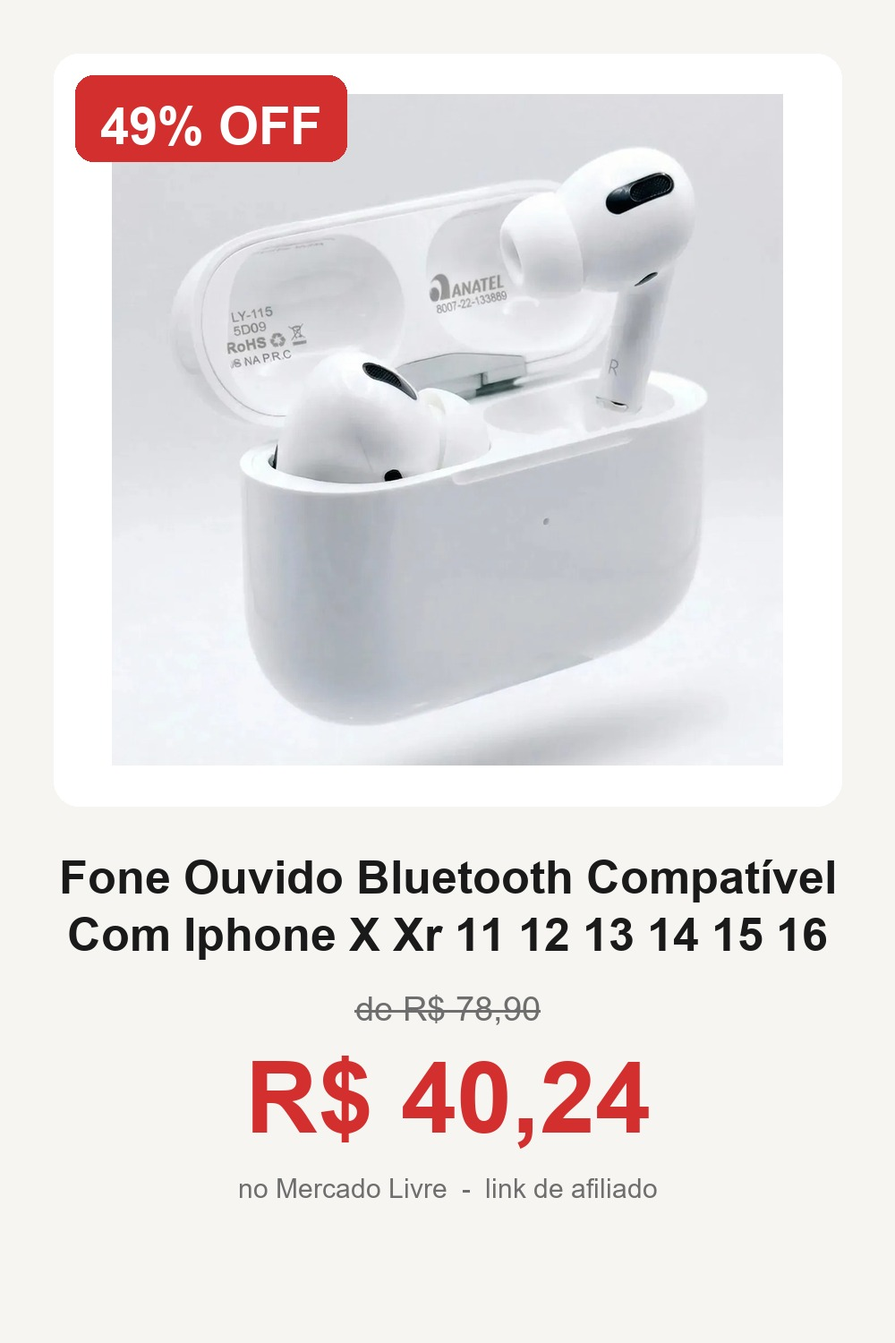
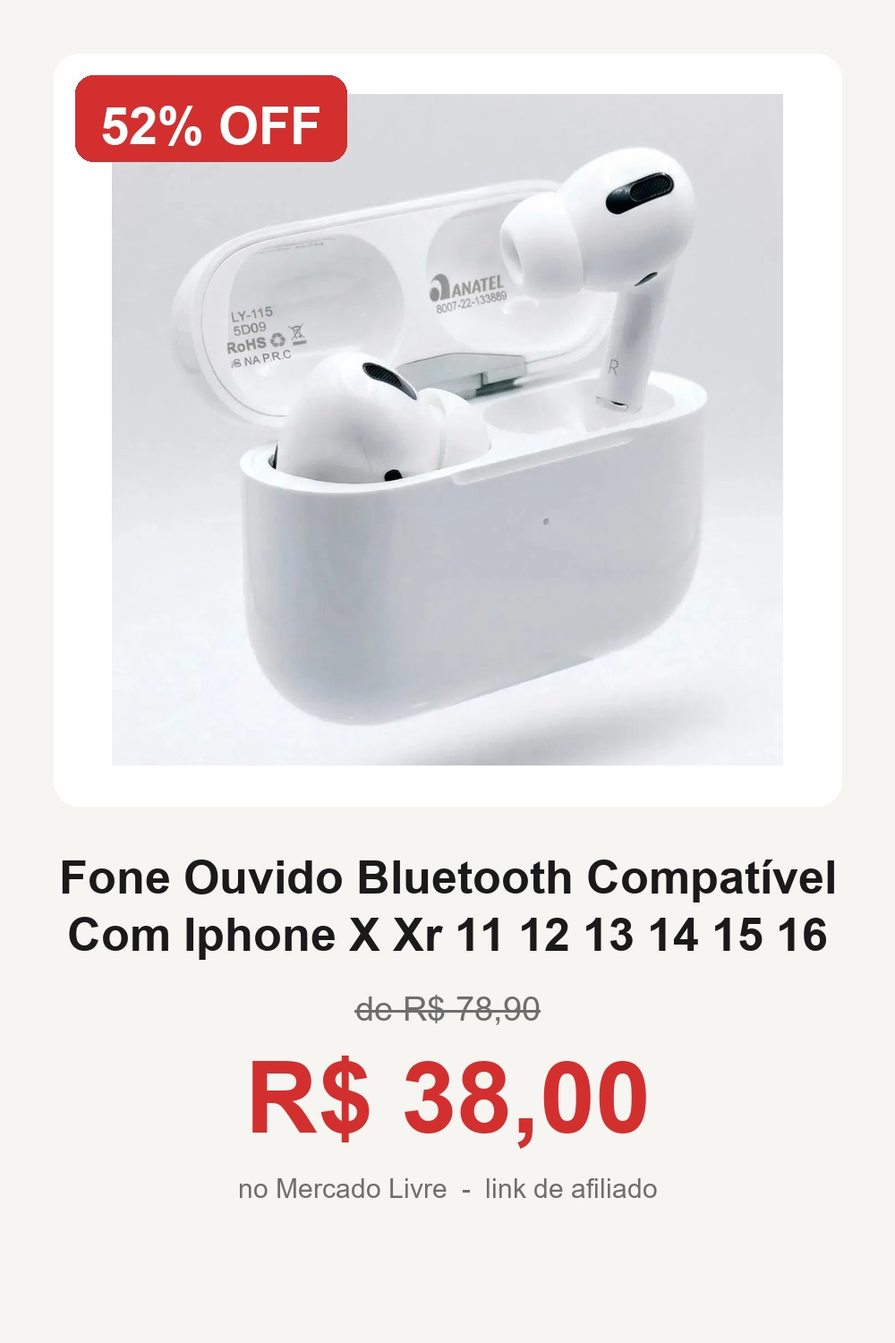
ofertas de 26/08/2026 09:30

Changed region(s): [[0.434, 0.7667, 0.744, 0.8587], [0.093, 0.0613, 0.186, 0.1227]]

diff --git a/index.html b/index.html
@@ -52,46 +52,38 @@ footer{text-align:center;color:var(--sub);font-size:13px;padding:32px 20px 56px;
 <p class="aviso">Os links sao de afiliado: voce paga o mesmo preco e eu recebo uma comissao.</p>
 
 <main>
-  <h2>Achados de 25/08/2026</h2>
+  <h2>Achados de 26/08/2026</h2>
   <div class="grade">
-    <a class="item" href="https://www.mercadolivre.com.br/social/eulleriago?matt_word=lootlabpinterest&amp;matt_tool=51242712&amp;forceInApp=true&amp;ref=BDXuMdaBcyIZwxMpnj3FsOLmb3lxolY48I%2F6SBkPc4qpBGSPZrIPAc27kKkda9nioZeig7N3Ct%2BM3Xq2eV%2B72GEMXUOeW0qhWbxjXaojla7DdRXfGIFCzJIkLvKDFfi71TJPPLXPsvbK2J0dkJNuIrCExP7Ryll2hHDlbvsDNzQpAdmocQETf%2Bv0l9UFTqqt6KiWTA%3D%3D" target="_blank" rel="nofollow sponsored noopener">
-      <img src="img/MLB6658742760.jpg" alt="Masterprint PETG Marrom" loading="lazy">
+    <a class="item" href="https://www.mercadolivre.com.br/social/eulleriago?matt_word=lootlabpinterest&amp;matt_tool=51242712&amp;forceInApp=true&amp;ref=BLq3xGLHOSsx3PDuyQT6UXx3uIKMGN2gUorcBduDoXsjZ%2BqYx1JqDubNJUyEE234ByuqwHcMvYmcTx8nZF%2BCnHjluGtq%2BvClZ8XZqMnlgl7zZEi1XHgAvKUMaQK9OIXhdknDUVgM9pATDf7eTlkCMXX0ZfmmQDoq5VETXylWyctwlx4QCNYH2WY10FxkkuE%2BGp9fxg%3D%3D" target="_blank" rel="nofollow sponsored noopener">
+      <img src="img/MLB5761878524.jpg" alt="Samsung Galaxy Buds Core, Fone de Ouvido, sem fio, cancelamento de ruído, interp" loading="lazy">
       <div class="txt">
-        <span class="tag">66% OFF</span>
-        <h3>Masterprint PETG Marrom</h3>
-        <div><span class="preco">R$ 67,27</span><span class="de">R$ 200,60</span></div>
+        <span class="tag">62% OFF</span>
+        <h3>Samsung Galaxy Buds Core, Fone de Ouvido, sem fio, cancelamento de ruí</h3>
+        <div><span class="preco">R$ 249,90</span><span class="de">R$ 649,90</span></div>
       </div>
     </a>
-    <a class="item" href="https://www.mercadolivre.com.br/social/eulleriago?matt_word=lootlabpinterest&amp;matt_tool=51242712&amp;forceInApp=true&amp;ref=BGm7uDHiVCnqSt2T2zuPW7GYUN8gTENAibzIIKGCFfU8U0M4gtxYssOxIaLuY9imF7c9kOa7cShiDAtAcn4Qz42VEOrYRVYApJ0pbVVRz4PGc3kVbZMTXPnIDbRicjK9A2dXIAyVw8qdMc%2B39f1xHgYwG3o6%2F%2BiaYIoV1GnEvrxu6KDCbV1M4p3vCBD%2BOooylNEVmg%3D%3D" target="_blank" rel="nofollow sponsored noopener">
-      <img src="img/MLB6288688794.jpg" alt="Kit Cobre Leito Colcha Casal 3 Peças Boutis Dupla Face Porta Travesseiro Aba Ame" loading="lazy">
+    <a class="item" href="https://www.mercadolivre.com.br/social/eulleriago?matt_word=lootlabpinterest&amp;matt_tool=51242712&amp;forceInApp=true&amp;ref=BFTJScz1IF%2FVNZezlAKeHQfdxzA7ElMOf5c2cDiG7savdsrr1dSRQQYVgDgUg%2BuqBGU%2BAmWoGa7kpkd2KRMgDa5FZfB06ZhMYQT5OgkAMlrjwnE6EgZdHh72vX3z7ckEUYeiFWKVWoZ0e29XMQ1id%2Bnab7im%2B0uI3J2XG7N25r7SU6l%2BVWdSW10qkEq3r65QU5rD5g%3D%3D" target="_blank" rel="nofollow sponsored noopener">
+      <img src="img/MLB4652637003.jpg" alt="Controle DualSense Sem Fio PlayStation 5 Cobalt Blue" loading="lazy">
       <div class="txt">
-        <span class="tag">61% OFF</span>
-        <h3>Kit Cobre Leito Colcha Casal 3 Peças Boutis Dupla Face Porta Travessei</h3>
-        <div><span class="preco">R$ 74,00</span><span class="de">R$ 187,90</span></div>
+        <span class="tag">56% OFF</span>
+        <h3>Controle DualSense Sem Fio PlayStation 5 Cobalt Blue</h3>
+        <div><span class="preco">R$ 438,99</span><span class="de">R$ 999,00</span></div>
       </div>
     </a>
-    <a class="item" href="https://www.mercadolivre.com.br/social/eulleriago?matt_word=lootlabpinterest&amp;matt_tool=51242712&amp;forceInApp=true&amp;ref=BJkELEI03zub%2BMzuwkMV1HyGaTkcRa3QGl%2B2lNlmlAQel4vuldHfHSq%2FXMPMkZAepySwdisCIxl9Du4f6SiXlJMFAS1HtrRN5RIFKgr%2Fs2sj%2Bx%2B%2BP%2BMe4r1uSxJ6JIoJ5GOtltGcD0zsZ9xoM%2B50yz500%2BnBQNUaO5Ub5CTSofdCoNC5%2BiuGBgWSuW9h4EoLJ1JvDA%3D%3D" target="_blank" rel="nofollow sponsored noopener">
-      <img src="img/MLB3936392089.jpg" alt="Controle GameSir G7 SE com Fio para Xbox One Series S X PC Hall Effect Botões Me" loading="lazy">
+    <a class="item" href="https://www.mercadolivre.com.br/social/eulleriago?matt_word=lootlabpinterest&amp;matt_tool=51242712&amp;forceInApp=true&amp;ref=BDuRPrLN1I9jpjX%2BSEpXq1qb5hdvtofYbHpPjNcOeeE1TW%2BtrosiWjgV%2Bh%2FkANpLeS%2BIJ0bhBz8WSIa9mcIhLlymt6wuffrAuLl8mZ6WfHdOS4fG7niqyz4hDIyMfPUlnI8%2FkIao1w23ZoTOMTWh0rbwMPnxYVpHoIp3xQw4Z65ahzhv%2BN9wcDxsLq1I0spCVkVyfw%3D%3D" target="_blank" rel="nofollow sponsored noopener">
+      <img src="img/MLB4371605519.jpg" alt="Kit 10 Pote De Vidro Marmita Hermético 370ml Freezer Fitness Rishon" loading="lazy">
       <div class="txt">
-        <span class="tag">51% OFF</span>
-        <h3>Controle GameSir G7 SE com Fio para Xbox One Series S X PC Hall Effect</h3>
-        <div><span class="preco">R$ 225,04</span><span class="de">R$ 459,90</span></div>
+        <span class="tag">53% OFF</span>
+        <h3>Kit 10 Pote De Vidro Marmita Hermético 370ml Freezer Fitness Rishon</h3>
+        <div><span class="preco">R$ 75,77</span><span class="de">R$ 159,90</span></div>
       </div>
     </a>
-    <a class="item" href="https://www.mercadolivre.com.br/social/eulleriago?matt_word=lootlabpinterest&amp;matt_tool=51242712&amp;forceInApp=true&amp;ref=BNMXACdkrxptOnyj5DZoqQsbuo0vN%2FEFeDZ%2FPGltV%2BCMS2yZCg%2B0JCm1PMjU6%2FFBmHWumgzVgwpzJKLnFINdiIrPf6r%2FCEUk06CIGfL39%2FhCA8casTW56fa6ylb32s4lk4yUJjtfIi%2Bn5FqK%2B0EoIRsHs6h4eCgXea338wUk6QT%2F058JuQhm5yIQRsgcQ62XBNaV1w%3D%3D" target="_blank" rel="nofollow sponsored noopener">
-      <img src="img/MLB6797030590.jpg" alt="Barbeador e Aparador Elétrico Philips OneBlade com Pente 5 em 1, Sem Fio e À Pro" loading="lazy">
+    <a class="item" href="https://www.mercadolivre.com.br/social/eulleriago?matt_word=lootlabpinterest&amp;matt_tool=51242712&amp;forceInApp=true&amp;ref=BHKz%2BEJuxLGT%2BZbAXjje%2F7VO5MvFpwL9XcbIzQbvBnQ%2BaCn6NR%2Fj08w3n9wXwZp3LyzcMj0O8KLEEXHCy2C4bJ7sRbmD6%2FXx9YxCgejPzbpa9mxZHY5%2BUvOTfHi1aSx3Ww1EEVzebYV9yVq7TV4aKpYG%2FO4GZdRh4vm%2BCH6w%2BjslOjCLfw9UzqHhgtWFeNoifG9puw%3D%3D" target="_blank" rel="nofollow sponsored noopener">
+      <img src="img/MLB6538432578.jpg" alt="Fone Ouvido Bluetooth Compatível Com Iphone X Xr 11 12 13 14 15 16 17 Xs Pro Max" loading="lazy">
       <div class="txt">
-        <span class="tag">50% OFF</span>
-        <h3>Barbeador e Aparador Elétrico Philips OneBlade com Pente 5 em 1, Sem F</h3>
-        <div><span class="preco">R$ 274,94</span><span class="de">R$ 549,87</span></div>
-      </div>
-    </a>
-    <a class="item" href="https://www.mercadolivre.com.br/social/eulleriago?matt_word=lootlabpinterest&amp;matt_tool=51242712&amp;forceInApp=true&amp;ref=BHw9WzwaBK%2B6GWMXrf7BNhSGgdF0semcek0YHuUxHvPf5ADUyvsoQwTCYaX2y5%2FMQYzxgZjtlaIgd4zaWcA1wMKjLXcrnPK8qcxPa2cltc32NkUe3K1Wn0AQ%2FuTup2nBwbKXfopkpeobKd2BsUP%2F4Ktb714Ma9iHY%2B5xdEAjs%2BZmN8y6Xd5Bq6Xp%2FWHYtWnh68H4NQ%3D%3D" target="_blank" rel="nofollow sponsored noopener">
-      <img src="img/MLB6588418806.jpg" alt="Fone De Ouvido Headphone Dapon H02d Bluetooth 5.1 Over-ear 22 Horas De Bateria V" loading="lazy">
-      <div class="txt">
-        <span class="tag">50% OFF</span>
-        <h3>Fone De Ouvido Headphone Dapon H02d Bluetooth 5.1 Over-ear 22 Horas De</h3>
-        <div><span class="preco">R$ 74,20</span><span class="de">R$ 149,00</span></div>
+        <span class="tag">52% OFF</span>
+        <h3>Fone Ouvido Bluetooth Compatível Com Iphone X Xr 11 12 13 14 15 16 17 </h3>
+        <div><span class="preco">R$ 38,00</span><span class="de">R$ 78,90</span></div>
       </div>
     </a>
     <a class="item" href="https://www.mercadolivre.com.br/social/eulleriago?matt_word=lootlabpinterest&amp;matt_tool=51242712&amp;forceInApp=true&amp;ref=BJJEOAOP8GYIwis%2FcETnSMFobxVP6wFO2QnACLkDZlhFrAEBDZg5l%2FU%2B5j8JPFqNFqH1eWX4mOXOIJWAj6IhQhApkZowZJfz6nlpFjAbwz6oodYRvk56KH%2FvPl0y3o89yuENQ4jn9q9L8WJlheHBLSmCbYVhOqDmLLAYwRFqeAYJgb4WvU%2FJoyYTiaUHMGbSkgA1Bw%3D%3D" target="_blank" rel="nofollow sponsored noopener">
@@ -102,14 +94,6 @@ footer{text-align:center;color:var(--sub);font-size:13px;padding:32px 20px 56px;
         <div><span class="preco">R$ 74,20</span><span class="de">R$ 149,00</span></div>
       </div>
     </a>
-    <a class="item" href="https://www.mercadolivre.com.br/social/eulleriago?matt_word=lootlabpinterest&amp;matt_tool=51242712&amp;forceInApp=true&amp;ref=BAzH6QrRJmE0wUAG9QvE1p85if%2BdCye1qtk59H5p2Jf0zN4CPdS0bVKch5FiGTAiQmAp7hKX0yWR%2FcY0oK%2BPMxRPpZvbB3lgD7%2BrUavnA%2FFDB2GBbX3d9v%2FzmwNyGJ93JVmTiGox0k%2Fl8wEeLgQfwnGLhh71apruO3CKYdZVGe4HISm8jPrfUSBkL9OVfkW%2B8sw2ww%3D%3D" target="_blank" rel="nofollow sponsored noopener">
-      <img src="img/MLB6449109660.jpg" alt="Bicicleta de Equilíbrio Infantil Sem Pedal Vermelho Buba" loading="lazy">
-      <div class="txt">
-        <span class="tag">49% OFF</span>
-        <h3>Bicicleta de Equilíbrio Infantil Sem Pedal Vermelho Buba</h3>
-        <div><span class="preco">R$ 203,99</span><span class="de">R$ 399,99</span></div>
-      </div>
-    </a>
     <a class="item" href="https://www.mercadolivre.com.br/social/eulleriago?matt_word=lootlabpinterest&amp;matt_tool=51242712&amp;forceInApp=true&amp;ref=BJ5VeCOWdVKuXCxLOre8uszl5o96lz4rGbgPbyp1lzkf20cVZoWHC0QbeOQ7As3bncO0ty%2F7442c7ZxA2omnvU%2BsdJrxR%2FnrL3SA9QggtnwNkzQE9JYQ1A9yEHc2u5DlyQoQtKBb%2BFP1cPBSzDza1BP8TQS8%2BGZlyd6UTXWO%2Bx3XiUXDdPsQeMg5Ah58Vgsmzp4aIA%3D%3D" target="_blank" rel="nofollow sponsored noopener">
       <img src="img/MLB5410636044.jpg" alt="Fone de Ouvido Bluetooth 5.4 soundcore P30i da Anker, Cancelamento de Ruído Adap" loading="lazy">
       <div class="txt">
@@ -118,68 +102,36 @@ footer{text-align:center;color:var(--sub);font-size:13px;padding:32px 20px 56px;
         <div><span class="preco">R$ 196,60</span><span class="de">R$ 389,00</span></div>
       </div>
     </a>
-    <a class="item" href="https://www.mercadolivre.com.br/social/eulleriago?matt_word=lootlabpinterest&amp;matt_tool=51242712&amp;forceInApp=true&amp;ref=BAhMKFlI9uapiZ7syV7kNBt5yh%2FvcadidYOziYZxLGHRS6w%2FO4CsANYCY%2BF8LKLOZssxEbZtuNWrxcM8mB4k1erbKafKdtrBCDt4Ohz%2F3kmS0E0U4LcRDZslQE%2FxcwUyDfDBF851URQFATIMnlq3wKZRTBK9%2BlMrgT9QGny6HEYfH97Uot0vf6tkS3m%2FHh3LCNCONQ%3D%3D" target="_blank" rel="nofollow sponsored noopener">
-      <img src="img/MLB6881037414.jpg" alt="Bomba De Tirar Leite Elétrica Bombinha De Leite Materno Alimentação Coletor De L" loading="lazy">
+    <a class="item" href="https://www.mercadolivre.com.br/social/eulleriago?matt_word=lootlabpinterest&amp;matt_tool=51242712&amp;forceInApp=true&amp;ref=BKHKgi1v%2BA00jedhoW6fc8l7SpzA94AgCcJ%2BtS71%2F2TozVtJrv5hsS9HMby%2BEkJvRYS%2F3qUcnnxSAWOedo5AxBdBQRDZBNrAtbDJwB9iZrvKeVh9baWZlmgWG1hFA4%2BXRWAFmcnhriCHSH87d%2F478glhpRKbeEiLzxACSjOd3JP2IuXywzTB7HSE3CUh1OUXMjD4FQ%3D%3D" target="_blank" rel="nofollow sponsored noopener">
+      <img src="img/MLB6259140664.jpg" alt="Fones de ouvido sem fio Xiaomi Redmi Buds 6 Play Bluetooth Pink" loading="lazy">
       <div class="txt">
         <span class="tag">49% OFF</span>
-        <h3>Bomba De Tirar Leite Elétrica Bombinha De Leite Materno Alimentação Co</h3>
-        <div><span class="preco">R$ 43,00</span><span class="de">R$ 84,99</span></div>
+        <h3>Fones de ouvido sem fio Xiaomi Redmi Buds 6 Play Bluetooth Pink</h3>
+        <div><span class="preco">R$ 91,88</span><span class="de">R$ 180,00</span></div>
       </div>
     </a>
-    <a class="item" href="https://www.mercadolivre.com.br/social/eulleriago?matt_word=lootlabpinterest&amp;matt_tool=51242712&amp;forceInApp=true&amp;ref=BHKz%2BEJuxLGT%2BZbAXjje%2F7VO5MvFpwL9XcbIzQbvBnQ%2BaCn6NR%2Fj08w3n9wXwZp3LyzcMj0O8KLEEXHCy2C4bJ7sRbmD6%2FXx9YxCgejPzbpa9mxZHY5%2BUvOTfHi1aSx3Ww1EEVzebYV9yVq7TV4aKpYG%2FO4GZdRh4vm%2BCH6w%2BjslOjCLfw9UzqHhgtWFeNoifG9puw%3D%3D" target="_blank" rel="nofollow sponsored noopener">
-      <img src="img/MLB6538432578.jpg" alt="Fone Ouvido Bluetooth Compatível Com Iphone X Xr 11 12 13 14 15 16 17 Xs Pro Max" loading="lazy">
-      <div class="txt">
-        <span class="tag">49% OFF</span>
-        <h3>Fone Ouvido Bluetooth Compatível Com Iphone X Xr 11 12 13 14 15 16 17 </h3>
-        <div><span class="preco">R$ 40,24</span><span class="de">R$ 78,90</span></div>
-      </div>
-    </a>
-    <a class="item" href="https://www.mercadolivre.com.br/social/eulleriago?matt_word=lootlabpinterest&amp;matt_tool=51242712&amp;forceInApp=true&amp;ref=BPX2oVhCzFp1VfBpU2S%2Bn3e%2FBPLOOAdG6bWklT5ccNVp7YCDp6KtM5%2BGNpKs1lu1eX%2Fr7z40HMeSuBBEYsZW8mnzqHpM8buW%2BrYVEJpXElLcjuClML1VG3lgHtvJgcE0%2ByNavDq%2F5NQGY4tTeIkCKhK0eAvDtMLcBIkuTBW3etlHD9FB26t%2BoxC%2BfwMYNq9weZ7n8Q%3D%3D" target="_blank" rel="nofollow sponsored noopener">
-      <img src="img/MLB6499991640.jpg" alt="Controle Dualsense Cfi-zct1 Sem Fio Ps5 Galactic Purple" loading="lazy">
-      <div class="txt">
-        <span class="tag">48% OFF</span>
-        <h3>Controle Dualsense Cfi-zct1 Sem Fio Ps5 Galactic Purple</h3>
-        <div><span class="preco">R$ 469,00</span><span class="de">R$ 899,00</span></div>
-      </div>
-    </a>
-    <a class="item" href="https://www.mercadolivre.com.br/social/eulleriago?matt_word=lootlabpinterest&amp;matt_tool=51242712&amp;forceInApp=true&amp;ref=BMYvvDNWr%2BQ3zWcYgBmMPWip2oowAD%2BLxHyEo2wKvVd2gQobccBEVsX%2BoGlpqee5FUWxlxod%2B5ZlZS5v4Oez%2F11CEc%2BAuvqx3mvRJaHMUTibr%2Ff73jqIk7rFzegq5ZPKWxvXULp34YgS290K4WAJBaoYv1COIxRVHhevNfA%2Bb7D93UfPAghGn8wgz8aWpqjP1UZZAA%3D%3D" target="_blank" rel="nofollow sponsored noopener">
-      <img src="img/MLB4975003963.jpg" alt="Espremedor Turbo Citrus, Mondial, 25W - E-01" loading="lazy">
-      <div class="txt">
-        <span class="tag">48% OFF</span>
-        <h3>Espremedor Turbo Citrus, Mondial, 25W - E-01</h3>
-        <div><span class="preco">R$ 99,97</span><span class="de">R$ 191,97</span></div>
-      </div>
-    </a>
-    <a class="item" href="https://www.mercadolivre.com.br/social/eulleriago?matt_word=lootlabpinterest&amp;matt_tool=51242712&amp;forceInApp=true&amp;ref=BLNKfNx737DQhVS7w0RozMVS56a589WNV1%2B6J3aHfiYnYvVJ%2Bc2WulEmJRl5%2BeydkgU4qLNNzCE9bvY9OyU%2FUFAO5XcE8kR5SOSAXtdUMzFsLXpXztLWxXpGk6MOmKntk38dxZuXl6qfTlacONPz%2FmVo2w6MLn53g5z2z6pJKAbPpEY8c06pmJX%2Bgwzh770gmsCC1g%3D%3D" target="_blank" rel="nofollow sponsored noopener">
-      <img src="img/MLB5187059120.jpg" alt="Fralda Protect &amp; Sec 90 Unidades Tamanho Médio Personal Baby" loading="lazy">
-      <div class="txt">
-        <span class="tag">48% OFF</span>
-        <h3>Fralda Protect &amp; Sec 90 Unidades Tamanho Médio Personal Baby</h3>
-        <div><span class="preco">R$ 32,99</span><span class="de">R$ 63,90</span></div>
-      </div>
-    </a>
-    <a class="item" href="https://www.mercadolivre.com.br/social/eulleriago?matt_word=lootlabpinterest&amp;matt_tool=51242712&amp;forceInApp=true&amp;ref=BDZRv%2FGke%2B92aTyFdpF8HvAOWioGZThPGwCCVGg8g5mswVoP5RKErtqNkNmzAK9d7Kt2KBERrL6h6%2B7toh6n%2FKdViFvgG5xbeccmmVyw6DF90ZgrHtYeS6FZ1lhuugzCkZbR0%2F0fLO%2F3r0xdB%2F5iG5oZ0snHMVsw9DL6W6uEfDin1nz8SsPn950qtdvptSFb4%2Bz15Q%3D%3D" target="_blank" rel="nofollow sponsored noopener">
-      <img src="img/MLB5735296442.jpg" alt="Kit 2 Câmeras Segurança Ip Interna Externa Wifi iCSee Infravermelho Prova D’Água" loading="lazy">
-      <div class="txt">
-        <span class="tag">47% OFF</span>
-        <h3>Kit 2 Câmeras Segurança Ip Interna Externa Wifi iCSee Infravermelho Pr</h3>
-        <div><span class="preco">R$ 183,99</span><span class="de">R$ 349,00</span></div>
-      </div>
-    </a>
-    <a class="item" href="https://www.mercadolivre.com.br/social/eulleriago?matt_word=lootlabpinterest&amp;matt_tool=51242712&amp;forceInApp=true&amp;ref=BN1a1rwIXYi6yHiO2q%2Fz69Qf7XYKpq0TIJ%2FAk%2BVy0JomlqK7r94VsL2uunNol4X5MKoWTPtQY7xgh2g6O8u%2BX92QScNOR7V7Pf899%2FIKV23138TjfXGbKs%2BJ3TwE4do8mrqXU10grSksqVg9%2BU5ISHJUyqmoTlhBhdaSdfb8ZPxlPazCHxAqVR%2F3PHg6lUKBzJtQZQ%3D%3D" target="_blank" rel="nofollow sponsored noopener">
-      <img src="img/MLB4237033987.jpg" alt="Controle Para Xbox 360 Com Fio USB e PC Preto Vibração Console Joystick Manete G" loading="lazy">
-      <div class="txt">
-        <span class="tag">47% OFF</span>
-        <h3>Controle Para Xbox 360 Com Fio USB e PC Preto Vibração Console Joystic</h3>
-        <div><span class="preco">R$ 47,90</span><span class="de">R$ 89,90</span></div>
-      </div>
-    </a>
-    <a class="item" href="https://www.mercadolivre.com.br/social/eulleriago?matt_word=lootlabpinterest&amp;matt_tool=51242712&amp;forceInApp=true&amp;ref=BOUirm7nDt3BbNHmaorT7U63Lj9wifCIEp04KQaJnhhdJeFRUXJ4h1SW6Tm8835kR1DgCf1Ojto1eE7xksGSM7bKL6mh5m1rQ3UXlz9ma7f%2FYFQxAW6wysparKpnrhBYosFbKugkbMgfalvJpqzypXU9iYDE3Z8rtByNa639L7dwWi55NrZQtETQdsvGwr3Ox0nMKw%3D%3D" target="_blank" rel="nofollow sponsored noopener">
-      <img src="img/MLB5107649265.jpg" alt="Mala de Bordo Rígida ABS Preto Sweet Studio com Rodas Duplas 360° para Viagem" loading="lazy">
+    <a class="item" href="https://www.mercadolivre.com.br/social/eulleriago?matt_word=lootlabpinterest&amp;matt_tool=51242712&amp;forceInApp=true&amp;ref=BFuIJg0Gaww2kVSXgtVtEPNfeOvf0wpQccaRqVbLODZhdv4NkFZEGpuJj4PK0kTVvpJlj4ukWsx9U4g4P0%2FzY2QVF0AFCCFXh3p43RoLNcl47Z003DgPEmolYGTNsG1lK4WGiXxHSKa1p%2B8N%2B7WiPvn4B4ORJfuXk%2FPwraCEHATCwUqMVF2cGqxrVVnHE7C45u7OvA%3D%3D" target="_blank" rel="nofollow sponsored noopener">
+      <img src="img/MLB7511286412.jpg" alt="Mala de Viagem Bordo Rígida Sweet Studio Prateada, de ABS e 4 Rodas" loading="lazy">
       <div class="txt">
         <span class="tag">45% OFF</span>
-        <h3>Mala de Bordo Rígida ABS Preto Sweet Studio com Rodas Duplas 360° para</h3>
+        <h3>Mala de Viagem Bordo Rígida Sweet Studio Prateada, de ABS e 4 Rodas</h3>
         <div><span class="preco">R$ 178,00</span><span class="de">R$ 322,00</span></div>
+      </div>
+    </a>
+    <a class="item" href="https://www.mercadolivre.com.br/social/eulleriago?matt_word=lootlabpinterest&amp;matt_tool=51242712&amp;forceInApp=true&amp;ref=BNtHs8NLa79GYBsZVrriiQvjOKiqqOTHaehf0OVF9onQfipsBeUKYiMNd0Pn7rr0TyRv%2FE1FBwtVA5awNUbCpAD0FVpblxOrE00gusXwr9kLaUFRgfXdJdZ33JMQcjQ5BZd9iAhB%2FHFU0marPBtTA1bunNPMlTmtJzaI3owsb62PPENQ9ihsiD6dXmk1ikUKqKsNxA%3D%3D" target="_blank" rel="nofollow sponsored noopener">
+      <img src="img/MLB4664879549.jpg" alt="Kit 2 Controles Sem Fio Bluetooth Videogame Tv Smart Pc Gamer Celular Dual Shock" loading="lazy">
+      <div class="txt">
+        <span class="tag">45% OFF</span>
+        <h3>Kit 2 Controles Sem Fio Bluetooth Videogame Tv Smart Pc Gamer Celular </h3>
+        <div><span class="preco">R$ 94,00</span><span class="de">R$ 169,90</span></div>
+      </div>
+    </a>
+    <a class="item" href="https://www.mercadolivre.com.br/social/eulleriago?matt_word=lootlabpinterest&amp;matt_tool=51242712&amp;forceInApp=true&amp;ref=BKGtm6Dj70Sl97OceoVKzxInHu4RDlXJN7fdrMcI6we5JMNaBt0NxHlYkvJYoPo11fLi6e9nFZvEGyUoCuyJGLCpsosOET6Vg1jGk5z5VCjls5255LmUPUknrr8Zd124rEc6by%2BixlrS%2Fh0h6RH2e8hDLxDPjk05vsv6VbXGTVJJ7PLVPVouAFd%2FPsQComJRrz4%2F%2Fg%3D%3D" target="_blank" rel="nofollow sponsored noopener">
+      <img src="img/MLB4075427272.jpg" alt="Fraldas Pampers Confort Sec XG x 34 unidades" loading="lazy">
+      <div class="txt">
+        <span class="tag">44% OFF</span>
+        <h3>Fraldas Pampers Confort Sec XG x 34 unidades</h3>
+        <div><span class="preco">R$ 81,59</span><span class="de">R$ 146,29</span></div>
       </div>
     </a>
     <a class="item" href="https://www.mercadolivre.com.br/social/eulleriago?matt_word=lootlabpinterest&amp;matt_tool=51242712&amp;forceInApp=true&amp;ref=BOxCZsgdDioBywfotXiRgC7Yad2%2FRVLUejlfHuTT73e6hhb%2Feq%2BopcTI7KQmmbvavcd%2BpUrVWv3bC6DFYUZdW3Rp4PbhfrUkncwba0MwtBLIa9xTvI6G0%2BgxNQSG8tRt6Lc5wEd3Tj0kB0af5UvSYqzOgQ5StER3%2FV5M8lBn4xQraPwQIz66QM%2B%2BTmpwnEdrWs%2BGSw%3D%3D" target="_blank" rel="nofollow sponsored noopener">
@@ -190,68 +142,116 @@ footer{text-align:center;color:var(--sub);font-size:13px;padding:32px 20px 56px;
         <div><span class="preco">R$ 64,90</span><span class="de">R$ 115,99</span></div>
       </div>
     </a>
-    <a class="item" href="https://www.mercadolivre.com.br/social/eulleriago?matt_word=lootlabpinterest&amp;matt_tool=51242712&amp;forceInApp=true&amp;ref=BO3Fz8Tp96k2lZgwfG6CbR4JmdUqkuWwzj6yACfINA68gZ44g7paI1QE8MLGoBubHfs4cAWeZq%2B%2F1NwdODHRqY5CaT3rA1PwUbn8TznodCts%2FTiJ1CXsmG%2BcmsQOUt9PZbxSuPmIThQ1fFI33izRO4M5ZtHh6rAAlKyuU0zlsRsFGF6rkp%2BPeSs9OBgjiwjjTlYsag%3D%3D" target="_blank" rel="nofollow sponsored noopener">
-      <img src="img/MLB5758097762.jpg" alt="Fone Ouvido Bluetooth 5.4 Sem Fio Estojo De Carregamento Anti Ruido A Prova Dagu" loading="lazy">
+    <a class="item" href="https://www.mercadolivre.com.br/social/eulleriago?matt_word=lootlabpinterest&amp;matt_tool=51242712&amp;forceInApp=true&amp;ref=BO5oojGQhFIk62DVj47kZAZpjxsS6AWn85DLUPQvlZJhHIBeYCMa5QsjD0%2F70i1OdVvW47FXYSLWr1BVX1W1lz1qhJmPzdwi8IuBuS%2BH5OaT0UAVQccO5Sh61al7wDITU1i8EMC%2FtYa2sesGJSxRDPda5%2FpF9v6oNn0yShQ5XO%2BFJCQ3tkRXspqhDq1J898iW98W6Q%3D%3D" target="_blank" rel="nofollow sponsored noopener">
+      <img src="img/MLB6091442578.jpg" alt="Espremedor Turbo Citrus, Mondial, 25W - E-01" loading="lazy">
       <div class="txt">
         <span class="tag">43% OFF</span>
-        <h3>Fone Ouvido Bluetooth 5.4 Sem Fio Estojo De Carregamento Anti Ruido A </h3>
-        <div><span class="preco">R$ 45,00</span><span class="de">R$ 78,90</span></div>
+        <h3>Espremedor Turbo Citrus, Mondial, 25W - E-01</h3>
+        <div><span class="preco">R$ 102,90</span><span class="de">R$ 179,80</span></div>
       </div>
     </a>
-    <a class="item" href="https://www.mercadolivre.com.br/social/eulleriago?matt_word=lootlabpinterest&amp;matt_tool=51242712&amp;forceInApp=true&amp;ref=BAQ5eujt6skYpzbdwPUXO81K0dWfFgcjBnIelXLR%2F1wvxzgSNnue5ChBm%2Fk3LrUZ9fkyfobIqwhJAK11fkOyZwPdm1Qa7GK%2FQ4kkk1Qk55KqKIjLvWUrfeX267fWMTWCgdIYRn9FxMhIAfGYQgeuZx6eXZsyKf1HZiZLkWb5IYePg6F2B7vj9ou4K0QWMOpiUOJvXQ%3D%3D" target="_blank" rel="nofollow sponsored noopener">
-      <img src="img/MLB6676753272.jpg" alt="Controle Gamesir T4 Nova Lite Sem Fio Para Pc Switch Android Ios Steam Hall Effe" loading="lazy">
+    <a class="item" href="https://www.mercadolivre.com.br/social/eulleriago?matt_word=lootlabpinterest&amp;matt_tool=51242712&amp;forceInApp=true&amp;ref=BLgn8PGxHlXbc35%2B%2BXBNB34FSdilaWSLoxGt%2F51n%2BC8%2FeMy4rWGL%2BOQQwXaPJBFhA%2F6DBjgf46oXOd4LmhFclJnRSz0DD5pUIvaC%2F8%2BZiLdEY8CChUYPxajBFZ89STYW6DSoFcTSu6VnBb%2FZ%2FvqQ0snblu%2Bs7%2BuKRdnyxRjX7FF5SwaoR2hFMVwdKgaqvqsZUIjw1Q%3D%3D" target="_blank" rel="nofollow sponsored noopener">
+      <img src="img/MLB6472069742.jpg" alt="Principia, Sérum Facial Retinol, 30ml Todo Tipo De Pele Noite" loading="lazy">
       <div class="txt">
         <span class="tag">40% OFF</span>
-        <h3>Controle Gamesir T4 Nova Lite Sem Fio Para Pc Switch Android Ios Steam</h3>
-        <div><span class="preco">R$ 179,99</span><span class="de">R$ 299,00</span></div>
+        <h3>Principia, Sérum Facial Retinol, 30ml Todo Tipo De Pele Noite</h3>
+        <div><span class="preco">R$ 41,90</span><span class="de">R$ 69,90</span></div>
       </div>
     </a>
-    <a class="item" href="https://www.mercadolivre.com.br/social/eulleriago?matt_word=lootlabpinterest&amp;matt_tool=51242712&amp;forceInApp=true&amp;ref=BNFswQzlgWKgSOTvI6PSjlNuM4OCMyMSzxP3poZb335usX%2BSIQ2BFCPpfG62h8wKLhsGqvky1tcLAtujmGogs3pqcHsoXaWAtxcEY91jTBr2FO9VobSxeiTlnJVSueopoqD9IaiQi%2FlloUdtm8WjtSYAE5ygcy205OVox0yRqfUhGRl4CPsFNR%2FlmJBd2lcTg0POaQ%3D%3D" target="_blank" rel="nofollow sponsored noopener">
-      <img src="img/MLB6739561262.jpg" alt="Controle Sem Fio Bluetooth Videogame Tv Smart Pc Gamer Celular Dual Shock Joysti" loading="lazy">
+    <a class="item" href="https://www.mercadolivre.com.br/social/eulleriago?matt_word=lootlabpinterest&amp;matt_tool=51242712&amp;forceInApp=true&amp;ref=BFYkvMsqFuUR%2F01A6CvV%2B3%2BqBvqVubr3NoULqFohkn48AfiBO5gPas1lZU9vwCbagnrT9clwo2IVqByFZ6x0qHqm0LSBZEGIl0i8zluKOPINImzR%2B0LDwSblDf0eHiFR7qXz9BxZ%2B7ZfXpmTe0KNCCpNqWyWwbCf%2FCFpoJ36CAX6e%2F7t3pwluqd3DKlKWolng701Bw%3D%3D" target="_blank" rel="nofollow sponsored noopener">
+      <img src="img/MLB4719823289.jpg" alt="Chuveiro Loren Shower eletronico Ultra Branco 7500W 220V lorenzetti" loading="lazy">
       <div class="txt">
         <span class="tag">39% OFF</span>
-        <h3>Controle Sem Fio Bluetooth Videogame Tv Smart Pc Gamer Celular Dual Sh</h3>
-        <div><span class="preco">R$ 48,33</span><span class="de">R$ 78,90</span></div>
+        <h3>Chuveiro Loren Shower eletronico Ultra Branco 7500W 220V lorenzetti</h3>
+        <div><span class="preco">R$ 139,90</span><span class="de">R$ 230,00</span></div>
       </div>
     </a>
-    <a class="item" href="https://www.mercadolivre.com.br/social/eulleriago?matt_word=lootlabpinterest&amp;matt_tool=51242712&amp;forceInApp=true&amp;ref=BOA3%2Ba1G3xsMvIYrk0VMNjpNTs77%2F5%2FS1N6jVgpG%2BE%2Fa%2FuUKN2Y6%2BxOUqmVEg5WtwvppKyi975mevi5sfW%2Fy58PE1m0Z%2B%2BbFcuxdE%2Fep%2B8XPqk6P6B2oejHBkExFKcNlI0oj5LHNVxQHvE4FGk2yDHLjGv%2Fn946oq%2Fgi%2F6CHQd%2F8NmPxWAgi3Qrk1O0bhYaDEojbgw%3D%3D" target="_blank" rel="nofollow sponsored noopener">
-      <img src="img/MLB4014884162.jpg" alt="Vittak Kit 30 Cabides Veludo De Roupa Antideslizante Slim Adulto Cor Preto" loading="lazy">
+    <a class="item" href="https://www.mercadolivre.com.br/social/eulleriago?matt_word=lootlabpinterest&amp;matt_tool=51242712&amp;forceInApp=true&amp;ref=BO7HVz2njTDCIMNZ8ZGaHlzFWzo1eVThMSeDqS1%2Bb4Q8e79HXF%2FlmGlmWG4E6HDxsqhZZF8c%2FysLUO80k9coV%2BMz3ml0qcEsdfNiqm2JCHr2fmf%2BQl7wJTipm4%2BxrVKm0tp%2FpPifVUO1LFzDNEuBkiy7F%2FDk0%2BufnJ%2BdW5Qi5p7acnCoIBxCbSHb%2F%2BXwvgLyQtifXA%3D%3D" target="_blank" rel="nofollow sponsored noopener">
+      <img src="img/MLB5741341592.jpg" alt="Kit 2 Controles Compatível Ps4 Cabo Controle Tv Samsung Pc P4 Ps 4 Bluetooth 4 B" loading="lazy">
       <div class="txt">
         <span class="tag">38% OFF</span>
-        <h3>Vittak Kit 30 Cabides Veludo De Roupa Antideslizante Slim Adulto Cor P</h3>
-        <div><span class="preco">R$ 46,46</span><span class="de">R$ 75,50</span></div>
+        <h3>Kit 2 Controles Compatível Ps4 Cabo Controle Tv Samsung Pc P4 Ps 4 Blu</h3>
+        <div><span class="preco">R$ 103,00</span><span class="de">R$ 165,90</span></div>
       </div>
     </a>
-    <a class="item" href="https://www.mercadolivre.com.br/social/eulleriago?matt_word=lootlabpinterest&amp;matt_tool=51242712&amp;forceInApp=true&amp;ref=BOpE9IbeE%2FfDeNYvahyxMVbLdbqmkjdbq5tgpYACDD2iK%2BHfMPxV1Jxys0qw4V1jAY%2F8aBcy7wW%2FXb1WKHxG7JKjyepB%2BSKf6DlQlLJB2UAV5%2Bbn1KaL%2BEtSYHXlx2UYsgoi1cW3rezkCvD6UJusdBDBxATj0n%2BnJXzuJuur4jwhjP5I3jt5V%2FKabizMkrZissFu2A%3D%3D" target="_blank" rel="nofollow sponsored noopener">
-      <img src="img/MLB4407942173.jpg" alt="Power Bank Basike com Cabo Embutido de 22.5W e 20.000mAh para iPhone e Android" loading="lazy">
-      <div class="txt">
-        <span class="tag">37% OFF</span>
-        <h3>Power Bank Basike com Cabo Embutido de 22.5W e 20.000mAh para iPhone e</h3>
-        <div><span class="preco">R$ 134,93</span><span class="de">R$ 214,00</span></div>
-      </div>
-    </a>
-    <a class="item" href="https://www.mercadolivre.com.br/social/eulleriago?matt_word=lootlabpinterest&amp;matt_tool=51242712&amp;forceInApp=true&amp;ref=BAhCPlZYy%2BImccabw769jf83wevODKT80PvENN4UKgmhn%2B1zQHtt8b6Lmq87SPtNyOMthiNYJdI0tYoPLICNJ%2Be%2B2VugXwJDHFbXYhEncErzkSGSGmprJeQ0e89Iu638lLINk0EaY5y2n0cbhF2Y73qw%2FypXQ9spsfjhrXf6teN7pdND1T2qVoMljcYFYHpUOAVtRw%3D%3D" target="_blank" rel="nofollow sponsored noopener">
-      <img src="img/MLB6755508528.jpg" alt="Chinelo Havaianas feminino e masculino top Liso unissex" loading="lazy">
-      <div class="txt">
-        <span class="tag">36% OFF</span>
-        <h3>Chinelo Havaianas feminino e masculino top Liso unissex</h3>
-        <div><span class="preco">R$ 31,99</span><span class="de">R$ 49,99</span></div>
-      </div>
-    </a>
-    <a class="item" href="https://www.mercadolivre.com.br/social/eulleriago?matt_word=lootlabpinterest&amp;matt_tool=51242712&amp;forceInApp=true&amp;ref=BMhkr1wfFbtGWDPWVlpXeEUcfUqQkvVS0dKKTSt3ts7UKIEZMJtYpj74ml9xc47WdmAKiQMl776Cwbo3PovCXNgWJwMboQ0b%2Fkwv24oD5b%2BUZ3odAuoRmXLWfV9aQhje1EnGgk%2BGOUBDgMHpgLn%2B7c2sexLtoKKRnk3g%2BAnWSc9TVVrlTwthSNZPK5dS1UYTLpmqqQ%3D%3D" target="_blank" rel="nofollow sponsored noopener">
-      <img src="img/MLB3811504878.jpg" alt="Papel Higiênico Neve Supreme Folha Tripla Leve 32 Pague 28" loading="lazy">
+    <a class="item" href="https://www.mercadolivre.com.br/social/eulleriago?matt_word=lootlabpinterest&amp;matt_tool=51242712&amp;forceInApp=true&amp;ref=BH5K24pGh8C%2Ft9ha5XkT%2BKOdeOtdh%2FtHLeOMZ2o3VUgKawAzFJMJY6QUNr1DrX8HFJwqEa2wWuzKuMBc0E6oP33Gj8ZTTChflFtuzX2ChMal7thi8t2XpFt%2BpFSGAbD%2FywFOf%2BAYwU%2BEpuT6G9uDh647s3SYNRazkgI%2F5Gxo8HuC7toehQsYaqNNRDT%2FrHcCjACnOA%3D%3D" target="_blank" rel="nofollow sponsored noopener">
+      <img src="img/MLB4729017917.jpg" alt="Cabo De Rede Internet 30m 30 Metros Cat6 Azul Crimpado Giga Lan Ethernet Boyu Ce" loading="lazy">
       <div class="txt">
         <span class="tag">35% OFF</span>
-        <h3>Papel Higiênico Neve Supreme Folha Tripla Leve 32 Pague 28</h3>
-        <div><span class="preco">R$ 60,12</span><span class="de">R$ 92,30</span></div>
+        <h3>Cabo De Rede Internet 30m 30 Metros Cat6 Azul Crimpado Giga Lan Ethern</h3>
+        <div><span class="preco">R$ 42,42</span><span class="de">R$ 64,90</span></div>
       </div>
     </a>
-    <a class="item" href="https://www.mercadolivre.com.br/social/eulleriago?matt_word=lootlabpinterest&amp;matt_tool=51242712&amp;forceInApp=true&amp;ref=BMBrHCiRMwuoh6o43TGvDXk1urdzut33SD1GJFGPCoHxo0hKAU0FPg8ublmyll4eDYTuzDZBehEcMMccFbL52FIfzi6ThHyxuPw8zjr9p1svR1zTC6aPGQUKNXFbrzbrXSPdkizwzLYp2HToTuc5X%2F7jeaD8FuOVpNUsG%2BWHmDyk6zmTZ8Yqxe31NoajLSNynmP5Lg%3D%3D" target="_blank" rel="nofollow sponsored noopener">
-      <img src="img/MLB6256228428.jpg" alt="Tênis Flyer Runner Mesh Feminino Puma" loading="lazy">
+    <a class="item" href="https://www.mercadolivre.com.br/social/eulleriago?matt_word=lootlabpinterest&amp;matt_tool=51242712&amp;forceInApp=true&amp;ref=BKV1KKs%2FBwakYAdvVZpqdtWaPJGQxNahKi9eHgF7C%2F5aWVWAXacE5xMm53dv0l3B8XXZ2x4cT55oyftbLS1gfO9nYy7rFA8GOHAh8z5xYEGMxIIAcA2mbUNKXMji%2Fjv4NvsWgHTYq36mupl1gC1dqJbhrrqsuGNFt0Qpk1l3KEznBBTyGGM3Saj2FpfYo11v1p4K9Q%3D%3D" target="_blank" rel="nofollow sponsored noopener">
+      <img src="img/MLB6255801292.jpg" alt="Tênis Flyer Runner Mesh Feminino Puma" loading="lazy">
       <div class="txt">
         <span class="tag">34% OFF</span>
         <h3>Tênis Flyer Runner Mesh Feminino Puma</h3>
         <div><span class="preco">R$ 229,99</span><span class="de">R$ 349,99</span></div>
+      </div>
+    </a>
+    <a class="item" href="https://www.mercadolivre.com.br/social/eulleriago?matt_word=lootlabpinterest&amp;matt_tool=51242712&amp;forceInApp=true&amp;ref=BA1jxcUpWMBHTklsdaa7oLAidzcdXOwVuFB38gZxhKMpKrm04KlsaVOnxjLSCM6aIFvndrLrXn8VTYklj%2BI9TEx92Q0Bgh%2BeRL7AXFWENdzJ1vRyk58goEtFHLNvsATudjaMCfzT6X3idWDPiCkTVn4yw0cwDB%2FHj2Z6ckbi%2Fv4Iw32xhRlVCmxn3up596tUdX0BWQ%3D%3D" target="_blank" rel="nofollow sponsored noopener">
+      <img src="img/MLB4810711237.jpg" alt="Jogo Talheres Faqueiro Tramontina Aço Inox 24 Peças Buzios I" loading="lazy">
+      <div class="txt">
+        <span class="tag">34% OFF</span>
+        <h3>Jogo Talheres Faqueiro Tramontina Aço Inox 24 Peças Buzios I</h3>
+        <div><span class="preco">R$ 71,27</span><span class="de">R$ 107,99</span></div>
+      </div>
+    </a>
+    <a class="item" href="https://www.mercadolivre.com.br/social/eulleriago?matt_word=lootlabpinterest&amp;matt_tool=51242712&amp;forceInApp=true&amp;ref=BEOllcGCw8NOW%2F%2Bd4qqcmL3rYHf%2F%2FvHKU6shoT5FGjtyxgbgQ8ewmLVZJiGeyiQjnNax1MYMSOa4gy%2FPvAbKmMS2T5qYg%2FQRw5HkBLu2RTGLVtnJXkWGkA3Y1gLAHIzhn7Y0HTv94e%2F1Pd8NlqII%2FXl8NAS01SXJmQu8%2Fx5QFJVfXx8dr%2BjGtTBMju0ncwI8dwRk2A%3D%3D" target="_blank" rel="nofollow sponsored noopener">
+      <img src="img/MLB4820632505.jpg" alt="Controle Sem Fio Microsoft Xbox Series S X One PC Pulse Red" loading="lazy">
+      <div class="txt">
+        <span class="tag">33% OFF</span>
+        <h3>Controle Sem Fio Microsoft Xbox Series S X One PC Pulse Red</h3>
+        <div><span class="preco">R$ 399,90</span><span class="de">R$ 599,99</span></div>
+      </div>
+    </a>
+    <a class="item" href="https://www.mercadolivre.com.br/social/eulleriago?matt_word=lootlabpinterest&amp;matt_tool=51242712&amp;forceInApp=true&amp;ref=BJfczFNq4DR8P7n%2BZ%2FSaMvLdxKRZ4kvVdmlg72q0N2RHG4p6uf7TTSGy4kvPuRMtqHzqHCO0S63JSpPhnq0xNr4mZqGE5qqxAGEbEg3Rzmz3%2BLJz%2BUW1Eh3o5N4vEtpcqpZk%2FM%2Bs0pe5x%2FOrlLCDQ1zTfkgHfs1almOgPeFM7w8geOWiE2FU2vbWFc01hyZzuZRGJQ%3D%3D" target="_blank" rel="nofollow sponsored noopener">
+      <img src="img/MLB4755857128.jpg" alt="Shampoo Anticaspa Cabelos Normais a Oleosos, Dercos DS Vichy, 300g" loading="lazy">
+      <div class="txt">
+        <span class="tag">33% OFF</span>
+        <h3>Shampoo Anticaspa Cabelos Normais a Oleosos, Dercos DS Vichy, 300g</h3>
+        <div><span class="preco">R$ 95,99</span><span class="de">R$ 143,90</span></div>
+      </div>
+    </a>
+    <a class="item" href="https://www.mercadolivre.com.br/social/eulleriago?matt_word=lootlabpinterest&amp;matt_tool=51242712&amp;forceInApp=true&amp;ref=BJM9cummqz2dphcKgbEFcyQhoZUAvYg0lwmlZGeoJBYpRU4BUSdWSD1P%2FQY87WGK1fZ6B2A2d9bwZSjsbe3ULhgYDEGtTvGcyq2WecwwbOoJeoVFceEeecq7b0hDi%2F7soz4onBXpAfntIuofpDfeHxu2MFuII%2BLuc4YmTdJBUDN3xHMjOMWYEr8r6rp1SDig6RYWiQ%3D%3D" target="_blank" rel="nofollow sponsored noopener">
+      <img src="img/MLB2691148217.jpg" alt="Creme Hidratante Corporal e facial para Pele Seca a Extra Seca Sem Perfume 454g " loading="lazy">
+      <div class="txt">
+        <span class="tag">33% OFF</span>
+        <h3>Creme Hidratante Corporal e facial para Pele Seca a Extra Seca Sem Per</h3>
+        <div><span class="preco">R$ 94,90</span><span class="de">R$ 141,90</span></div>
+      </div>
+    </a>
+    <a class="item" href="https://www.mercadolivre.com.br/social/eulleriago?matt_word=lootlabpinterest&amp;matt_tool=51242712&amp;forceInApp=true&amp;ref=BMc3h3Jta0Ze8i4PGFeH2gmRs8MC5fsmYGDki1Yo%2FRqSnuiUzIODDisx0h15gWU%2F3sMRExejsN35lD%2FUDAPtMfkpJsNZO5O2XXyXlcm%2BSxmKgnqSGGhYpMynAne5kxPKN3HsM0NYR%2BR%2FnsOBSF%2BvTe8OVpinSLEJK1%2BST%2Fb9kaE8xLiwjHY%2Fsp80HUrt9%2FSys5ddpQ%3D%3D" target="_blank" rel="nofollow sponsored noopener">
+      <img src="img/MLB3624745217.jpg" alt="Controle Joystick Sem Fio Sony PlayStation 5 DualSense Midnight Black" loading="lazy">
+      <div class="txt">
+        <span class="tag">32% OFF</span>
+        <h3>Controle Joystick Sem Fio Sony PlayStation 5 DualSense Midnight Black</h3>
+        <div><span class="preco">R$ 407,45</span><span class="de">R$ 599,00</span></div>
+      </div>
+    </a>
+    <a class="item" href="https://www.mercadolivre.com.br/social/eulleriago?matt_word=lootlabpinterest&amp;matt_tool=51242712&amp;forceInApp=true&amp;ref=BCNKm%2BuAWOATo8H6cqzxeWbH2H5RoNVq7C0kEFDnrj0KnoMwo6JC6U9jOoRGW48tPEqeO%2FGpt81sU%2FVnYLA%2B4fRhY4eJYAK7vS4cEDg5%2BcXIAH1CcDnJvXg0nO8GB%2FQZmK9sRvzWMVWC07M%2BV4JoWTC1WCA9pYr80nptRzpGYtY4ltj2aQX68OZ1achyxqTa61DHmA%3D%3D" target="_blank" rel="nofollow sponsored noopener">
+      <img src="img/MLB5554213538.jpg" alt="Kit Principia para Rotina de Skincare Pele Sensível com Protetor Solar FPS 60" loading="lazy">
+      <div class="txt">
+        <span class="tag">31% OFF</span>
+        <h3>Kit Principia para Rotina de Skincare Pele Sensível com Protetor Solar</h3>
+        <div><span class="preco">R$ 94,31</span><span class="de">R$ 137,00</span></div>
+      </div>
+    </a>
+    <a class="item" href="https://www.mercadolivre.com.br/social/eulleriago?matt_word=lootlabpinterest&amp;matt_tool=51242712&amp;forceInApp=true&amp;ref=BKguifquzn5XFRUdJ%2BlnuEHOj15rkMIYEQt%2F6k2jzTvsABgAtnZ6P9UL9HfjxlsIe3sKdtWzO3shmfeN0moDJKBd9%2FBA%2BHxJegEIcorM%2F8VXXoyaGLovbte2R%2FK43ckH7awLUwByJAb3%2BUsISBr5bu%2Bi0YW7Cfg3sPAqLKPTJ1ii%2B2Wo6ygiH8P9O10uwuKwh2Ly7Q%3D%3D" target="_blank" rel="nofollow sponsored noopener">
+      <img src="img/MLB6255461148.jpg" alt="Tênis Flyer Runner Mesh Bdp Puma" loading="lazy">
+      <div class="txt">
+        <span class="tag">30% OFF</span>
+        <h3>Tênis Flyer Runner Mesh Bdp Puma</h3>
+        <div><span class="preco">R$ 229,99</span><span class="de">R$ 329,99</span></div>
+      </div>
+    </a>
+    <a class="item" href="https://www.mercadolivre.com.br/social/eulleriago?matt_word=lootlabpinterest&amp;matt_tool=51242712&amp;forceInApp=true&amp;ref=BHnglTWS3OLfPUSmCpE6MTG1rLqffnSnG467ArN3RgwreKMU6sjEHErf7qVJ3kJd6rR96Uzk84x682V20ny30dE6GdjSiHobW%2F4%2FA9q3l1WfnQ8RCzvcc%2B4ryJXWongRXgZgli13GUXCTxQ7H8ozfb0UVbM1t4dzaaMKqUdRsmJ6r0fbSx5SlxOBVoxWTDeLfTHaIA%3D%3D" target="_blank" rel="nofollow sponsored noopener">
+      <img src="img/MLB1857120562.jpg" alt="Fralda Pom Pom Protek Proteção de Mãe G 68 Unidades" loading="lazy">
+      <div class="txt">
+        <span class="tag">30% OFF</span>
+        <h3>Fralda Pom Pom Protek Proteção de Mãe G 68 Unidades</h3>
+        <div><span class="preco">R$ 69,99</span><span class="de">R$ 99,99</span></div>
       </div>
     </a>
   </div>
